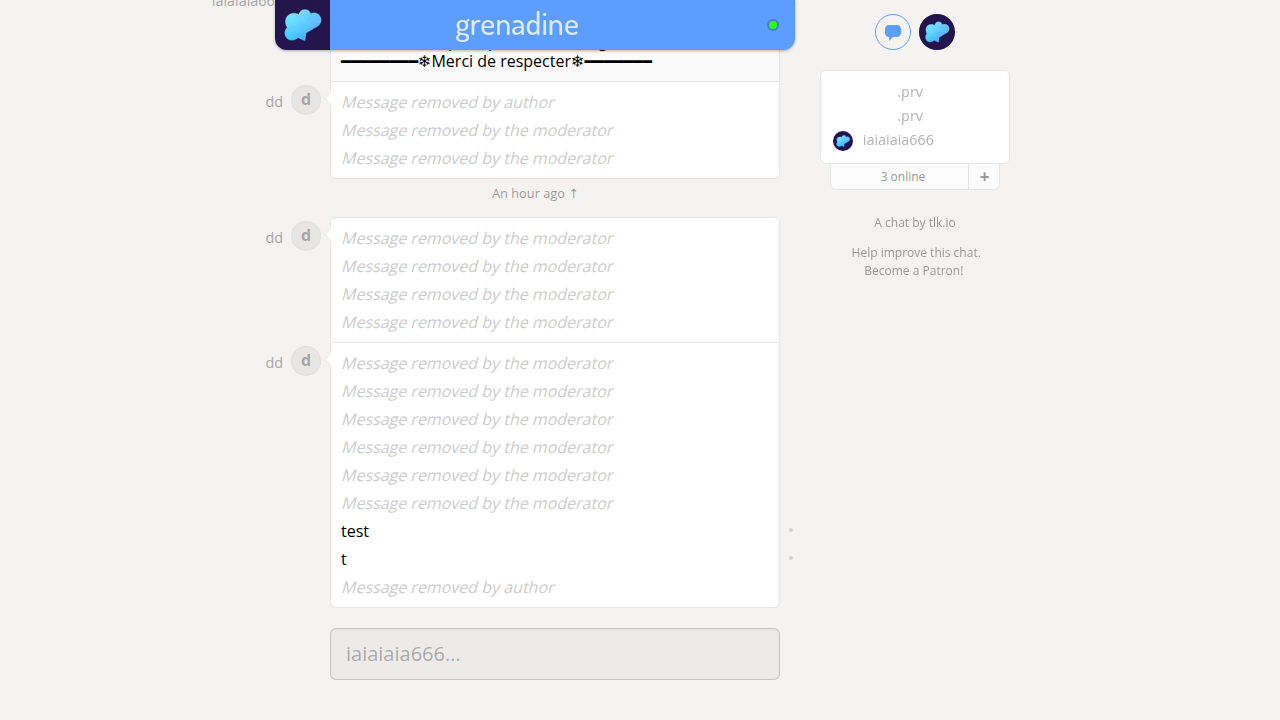
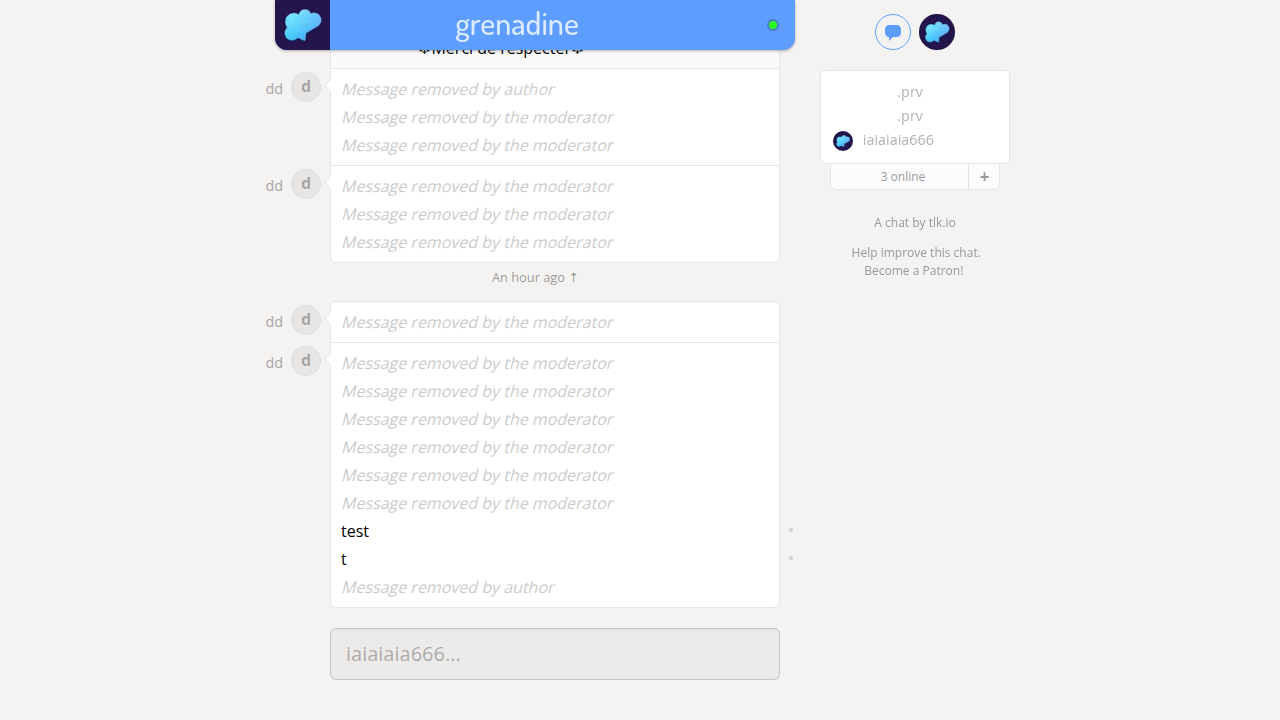
Improve message deletion by mimicking script behavior
Modify the message deletion function to use `evaluate` and `dispatchEvent` for precise event simulation, ensuring messages are correctly deleted by mimicking the Tampermonkey script's interaction model.

Replit-Commit-Author: Agent
Replit-Commit-Session-Id: e86b3eae-6364-48c2-9330-94d10016b9f5
Replit-Commit-Checkpoint-Type: full_checkpoint
Replit-Commit-Event-Id: 9270ff05-0b7b-408a-9e4e-c14fceec76ad
Replit-Commit-Screenshot-Url: https://storage.googleapis.com/screenshot-production-us-central1/388e3eed-93b7-4a0a-9916-a5bb32e410e1/e86b3eae-6364-48c2-9330-94d10016b9f5/DbSwA7b
Replit-Helium-Checkpoint-Created: true

Changed region(s): [[0.1875, 0.0611, 0.5, 0.4278], [0.1562, 0.0, 0.2188, 0.0306], [0.2188, 0.4278, 0.25, 0.4583]]

diff --git a/dist/bot.js b/dist/bot.js
@@ -196,34 +196,35 @@ function startRulesTimer(page) {
     console.log(`[INFO] Timer des règles démarré. Envoi toutes les ${config_1.RULES_INTERVAL_MS / 1000 / 60} minutes.`);
 }
 /**
- * Supprime un message (comme le script Tampermonkey pour les médias).
+ * Supprime un message (exactement comme le script Tampermonkey).
  */
 async function deleteMessage(postElement) {
     try {
-        // 1. Trouver le dernier message non-supprimé (dd.post-message sans la classe "deleted")
-        const hoverZone = postElement.locator('dd.post-message:not(.deleted)').last();
-        if (await hoverZone.count() === 0) {
-            // Tous les messages de ce post sont déjà supprimés
-            return;
-        }
-        // 2. Hover sur la zone pour faire apparaître les boutons
-        await hoverZone.hover();
-        await page.waitForTimeout(150);
-        // 3. Chercher le bouton delete spécifiquement
-        const deleteBtn = postElement.locator('button#delete-message.post-time-button');
-        if (await deleteBtn.count() > 0) {
-            await deleteBtn.click({ force: true });
-            console.log("[SUPPRESSION] Message supprimé avec succès.");
-            return;
-        }
-        // 4. Alternative: chercher tous les boutons et prendre le 2ème
-        const buttons = postElement.locator('button');
-        const count = await buttons.count();
-        if (count >= 2) {
-            await buttons.nth(1).click({ force: true });
-            console.log("[SUPPRESSION] Message supprimé (2ème bouton).");
-            return;
-        }
+        // Utiliser evaluate pour exécuter le code exactement comme Tampermonkey
+        await postElement.evaluate((post) => {
+            function hover(el) {
+                el.dispatchEvent(new MouseEvent("mouseover", { bubbles: true }));
+                el.dispatchEvent(new MouseEvent("mouseenter", { bubbles: true }));
+            }
+            function click(el) {
+                el.dispatchEvent(new MouseEvent("mousedown", { bubbles: true }));
+                el.dispatchEvent(new MouseEvent("mouseup", { bubbles: true }));
+                el.dispatchEvent(new MouseEvent("click", { bubbles: true }));
+            }
+            const hoverZone = post.querySelector("dd.post-message");
+            if (!hoverZone)
+                return;
+            hover(hoverZone);
+            setTimeout(() => {
+                const deleteBtn = post.querySelector("button#delete-message.post-time-button");
+                if (deleteBtn) {
+                    click(deleteBtn);
+                }
+            }, 120);
+        });
+        // Attendre que la suppression soit effectuée
+        await page.waitForTimeout(200);
+        console.log("[SUPPRESSION] Message supprimé avec succès.");
     }
     catch (error) {
         // Ignorer silencieusement les erreurs (post déjà supprimé ou disparu)

diff --git a/src/bot.ts b/src/bot.ts
@@ -162,37 +162,39 @@ function startRulesTimer(page: Page): void {
 }
 
 /**
- * Supprime un message (comme le script Tampermonkey pour les médias).
+ * Supprime un message (exactement comme le script Tampermonkey).
  */
 async function deleteMessage(postElement: Locator): Promise<void> {
     try {
-        // 1. Trouver le dernier message non-supprimé (dd.post-message sans la classe "deleted")
-        const hoverZone = postElement.locator('dd.post-message:not(.deleted)').last();
-        if (await hoverZone.count() === 0) {
-            // Tous les messages de ce post sont déjà supprimés
-            return;
-        }
+        // Utiliser evaluate pour exécuter le code exactement comme Tampermonkey
+        await postElement.evaluate((post) => {
+            function hover(el: Element) {
+                el.dispatchEvent(new MouseEvent("mouseover", { bubbles: true }));
+                el.dispatchEvent(new MouseEvent("mouseenter", { bubbles: true }));
+            }
 
-        // 2. Hover sur la zone pour faire apparaître les boutons
-        await hoverZone.hover();
-        await page.waitForTimeout(150);
+            function click(el: Element) {
+                el.dispatchEvent(new MouseEvent("mousedown", { bubbles: true }));
+                el.dispatchEvent(new MouseEvent("mouseup", { bubbles: true }));
+                el.dispatchEvent(new MouseEvent("click", { bubbles: true }));
+            }
 
-        // 3. Chercher le bouton delete spécifiquement
-        const deleteBtn = postElement.locator('button#delete-message.post-time-button');
-        if (await deleteBtn.count() > 0) {
-            await deleteBtn.click({ force: true });
-            console.log("[SUPPRESSION] Message supprimé avec succès.");
-            return;
-        }
+            const hoverZone = post.querySelector("dd.post-message");
+            if (!hoverZone) return;
 
-        // 4. Alternative: chercher tous les boutons et prendre le 2ème
-        const buttons = postElement.locator('button');
-        const count = await buttons.count();
-        if (count >= 2) {
-            await buttons.nth(1).click({ force: true });
-            console.log("[SUPPRESSION] Message supprimé (2ème bouton).");
-            return;
-        }
+            hover(hoverZone);
+
+            setTimeout(() => {
+                const deleteBtn = post.querySelector("button#delete-message.post-time-button");
+                if (deleteBtn) {
+                    click(deleteBtn);
+                }
+            }, 120);
+        });
+        
+        // Attendre que la suppression soit effectuée
+        await page.waitForTimeout(200);
+        console.log("[SUPPRESSION] Message supprimé avec succès.");
     } catch (error) {
         // Ignorer silencieusement les erreurs (post déjà supprimé ou disparu)
     }
